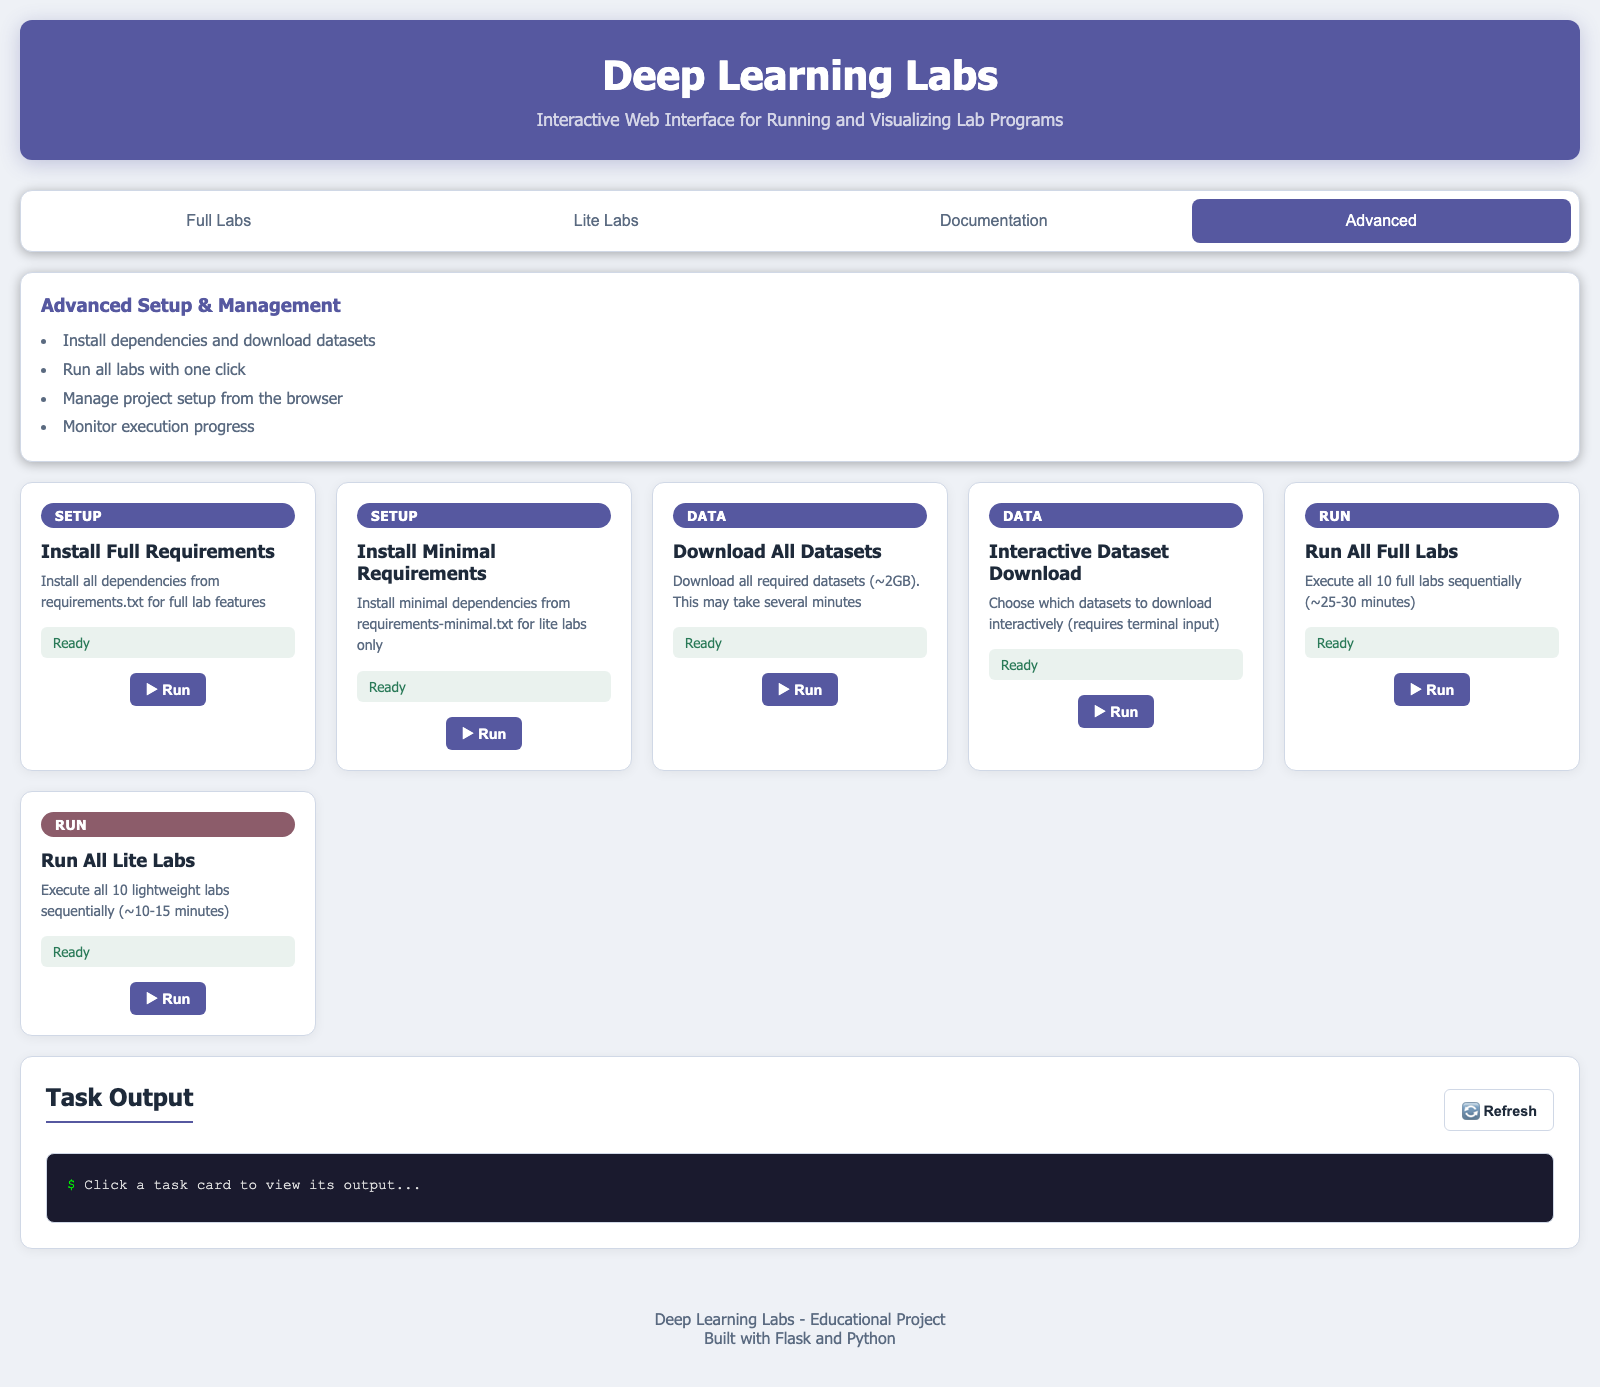
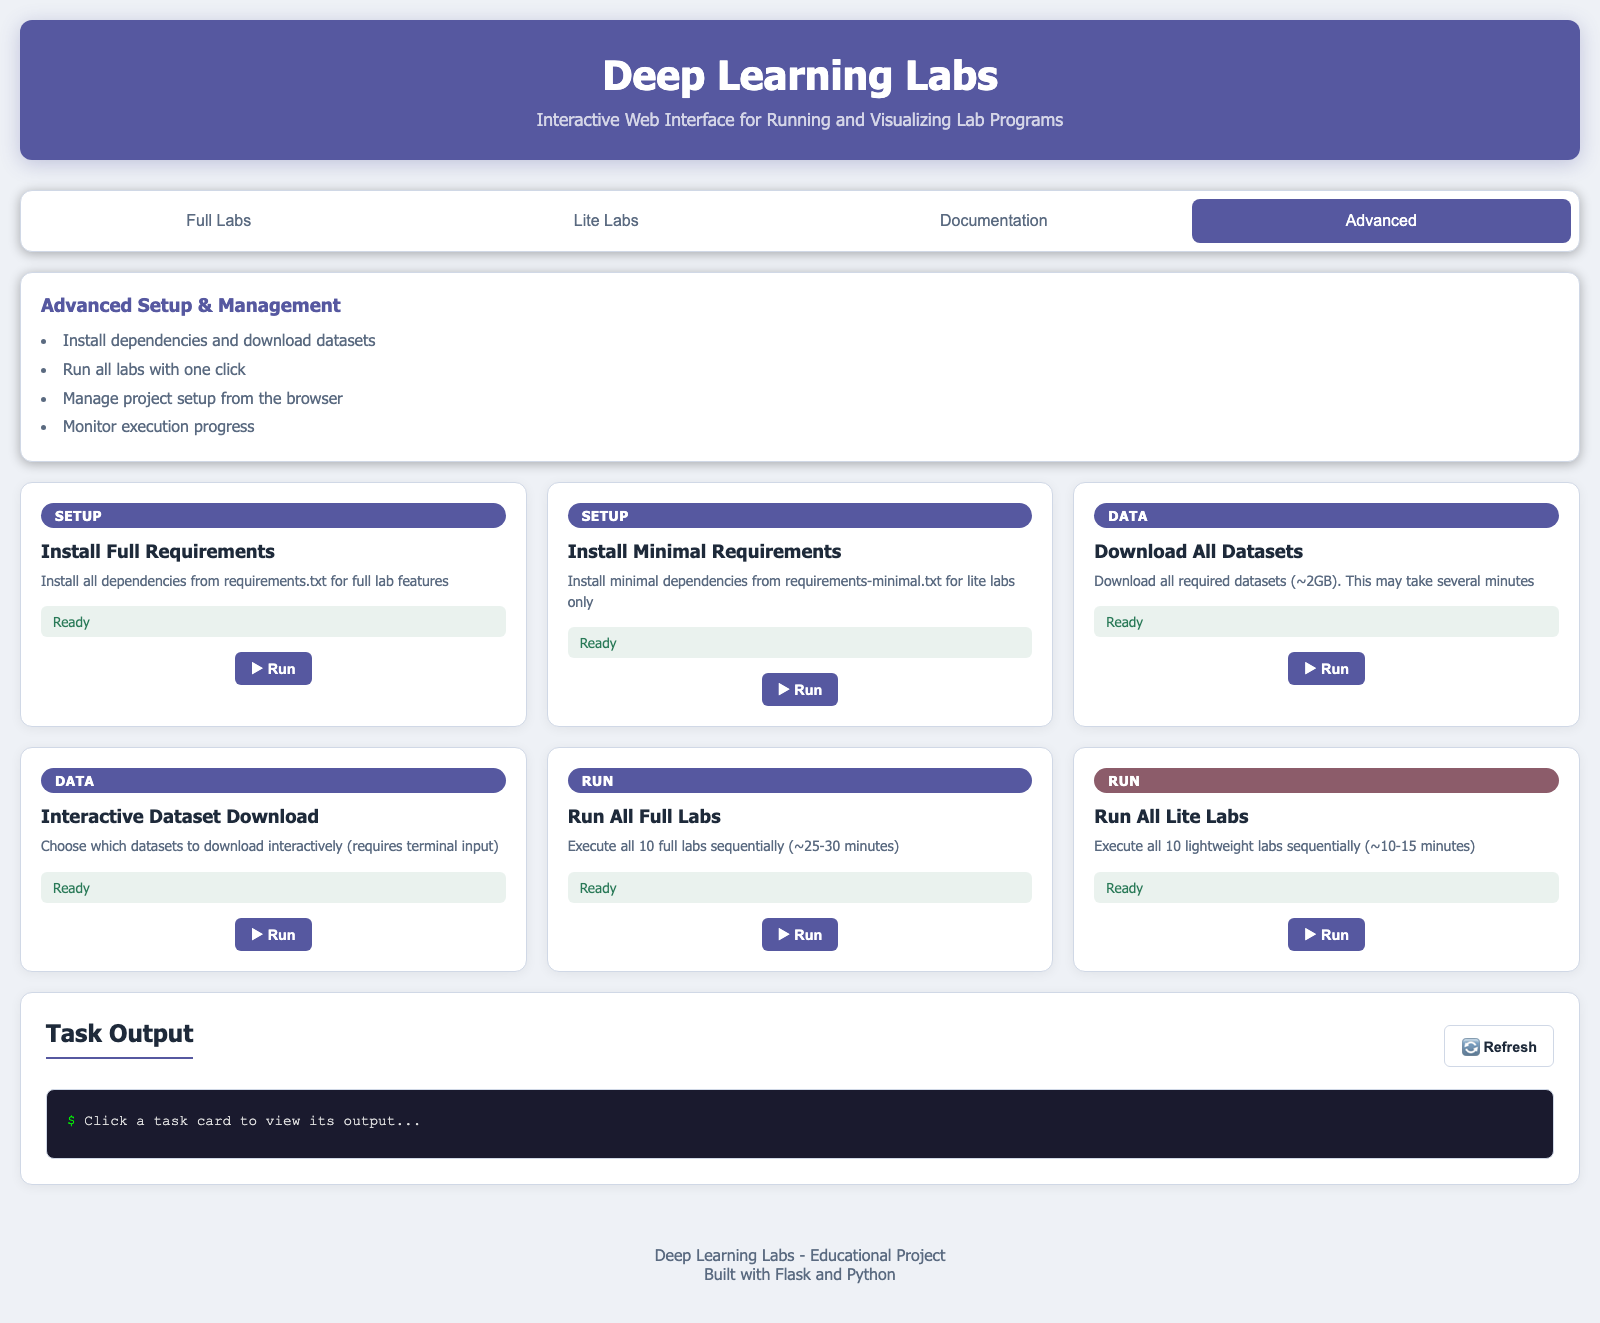
Switch Advanced tab tasks to 3x2 grid layout
Adds a dedicated .tasks-grid class (repeat(3, 1fr)) instead of
reusing the 5-column .labs-grid, giving the 6 task cards a clean
3x2 arrangement. Updated screenshot to match.

diff --git a/web_interface/templates/index.html b/web_interface/templates/index.html
@@ -439,6 +439,13 @@
             margin-top: 20px;
         }
 
+        .tasks-grid {
+            display: grid;
+            grid-template-columns: repeat(3, 1fr);
+            gap: 20px;
+            margin-bottom: 20px;
+        }
+
         .doc-card {
             background: var(--bg-card);
             border: 1px solid var(--border);
@@ -515,7 +522,8 @@
         }
 
         @media (max-width: 768px) {
-            .labs-grid {
+            .labs-grid,
+            .tasks-grid {
                 grid-template-columns: 1fr;
             }
 
@@ -647,7 +655,7 @@
                 </ul>
             </div>
 
-            <div class="labs-grid">
+            <div class="tasks-grid">
                 <div class="lab-card" onclick="viewTaskOutput('install-full')">
                     <div class="lab-number">SETUP</div>
                     <div class="lab-title">Install Full Requirements</div>
